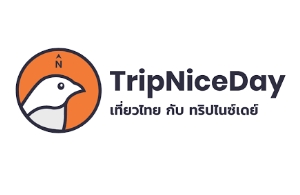
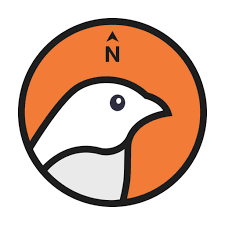
updating sponspor page

diff --git a/SponsorPage/Sponsor.html b/SponsorPage/Sponsor.html
@@ -1,0 +1,161 @@
+<!DOCTYPE html>
+<html lang="en">
+<head>
+  <meta charset="UTF-8">
+  <meta name="viewport" content="width=device-width, initial-scale=1.0">
+  <title>ITI BU Open House </title>
+  <link rel="icon" type="image/png" href="../image/icon.png">
+  <link href="https://cdn.jsdelivr.net/npm/bootstrap@5.3.0/dist/css/bootstrap.min.css" rel="stylesheet">
+  <link rel="stylesheet" href="/global.css">
+  <link rel="stylesheet" href="Sponsor-style.css">
+  <link href="https://fonts.googleapis.com/css2?family=Prompt:wght@300;400;500;600;700&display=swap" rel="stylesheet">
+</head>
+<body>
+
+  <!-- Navbar -->
+  <nav class="navbar navbar-expand-lg navbar-dark bg-dark" aria-label="Fifth navbar example">
+    <div class="container-fluid">
+      <a class="navbar-brand" href="/Home.html">
+        <img src="../image/logo.png" alt="Logo" style="width: 150px; height: auto;">
+      </a>
+      <button class="navbar-toggler" type="button" data-bs-toggle="collapse" data-bs-target="#navbarsExample05" aria-controls="navbarsExample05" aria-expanded="false" aria-label="Toggle navigation">
+        <span class="navbar-toggler-icon"></span>
+      </button>
+      <div class="collapse navbar-collapse" id="navbarsExample05">
+        <ul class="navbar-nav me-auto mb-2 mb-lg-0">
+          <li class="nav-item">
+            <a class="nav-link active" href="/Home.html">Home</a>
+          </li>
+          <li class="nav-item dropdown">
+            <a class="nav-link dropdown-toggle" href="#" data-bs-toggle="dropdown" aria-expanded="false">About</a>
+            <ul class="dropdown-menu">
+              <li><a class="dropdown-item" href="#">About the Open House</a></li>
+              <li><a class="dropdown-item" href="/SchedulePage/Schedule.html">Schedule</a></li>
+              <li><a class="dropdown-item" href="/SpeakerPage/Speaker.html">Speaker Profile</a></li>
+              <li><a class="dropdown-item" href="/Workshop.html">Workshop and Activities</a></li>
+              <li><a class="dropdown-item" href="/Contact.html">Contact Us</a></li>
+            </ul>
+          </li>
+          <li class="nav-item">
+            <a class="nav-link" href="#">Gallery</a>
+          </li>
+          <li class="nav-item">
+            <a class="nav-link" href="/SponsorPage/Sponsor.html">Sponsor & Partner</a>
+          </li>
+          <li class="nav-item">
+            <a class="nav-link" href="/FAQPage/FAQ.html">FAQ</a>
+          </li>
+        </ul>
+      </div>
+    </div>
+  </nav>
+
+  <!-- Image Carousel -->
+  <div id="carouselExampleCaptions" class="carousel slide" data-bs-ride="carousel">
+    <div class="carousel-inner">
+      <div class="carousel-item active">
+        <img src="../image/oph2.jpg" class="d-block w-100" alt="Sponsor 1">
+      </div>
+      <div class="carousel-item">
+        <img src="../image/oph.jpg" class="d-block w-100" alt="Sponsor 2">
+      </div>
+      <div class="carousel-item">
+        <img src="../image/oph3.jpg" class="d-block w-100" alt="Sponsor 3">
+      </div>
+    </div>
+    <button class="carousel-control-prev" type="button" data-bs-target="#carouselExampleCaptions" data-bs-slide="prev">
+      <span class="carousel-control-prev-icon" aria-hidden="true"></span>
+      <span class="visually-hidden">Previous</span>
+    </button>
+    <button class="carousel-control-next" type="button" data-bs-target="#carouselExampleCaptions" data-bs-slide="next">
+      <span class="carousel-control-next-icon" aria-hidden="true"></span>
+      <span class="visually-hidden">Next</span>
+    </button>
+  </div>
+
+  <!-- Title and Detail -->
+  <div class="container text-center mt-4">
+    <h1 class="page-title">Sponsors & Partners</h1>
+    <p class="page-detail">หนึ่งความพิเศษของปีนี้คือ มหาวิทยาลัยกรุงเทพได้ร่วมมือกับ BENZILLA ศิลปินศิษย์เก่าชื่อดัง มาร่วมออกแบบ Character ที่สะท้อนให้เห็นถึงความ Pro ของแต่ละคลัสเตอร์อีกด้วย 
+      บอกเลยว่าทุกกิจกรรมตั้งใจจัดเต็มกันแบบสุด ๆ ไม่ว่าจะเป็น 
+      PERSONALITY TEST ลองรู้จักตัวเอง, PRO-ACTIVITIES ลองฝึกทําจริง, PRO-CERTIFICATE ลองล่าใบเซอร์ใส่พอร์ต,
+      FLAVORFUL FAIR ลองชิมร้านมือโปร, FANCY NIGHT ลองสนุกให้สุด </p>
+  </div>
+
+  <!-- Sponsor Partners Section -->
+  <div class="container sponsor-section mt-5">
+    <div class="row text-center">
+      <div class="col-lg-4 col-md-6 mb-4">
+        <div class="sponsor-card">
+          <img src="../image/arise.jpg" class="sponsor-image" alt="Partner 1">
+          <h5 class="partner-title">Arise by INFINITAS</h5>
+        </div>
+      </div>
+      <div class="col-lg-4 col-md-6 mb-4">
+        <div class="sponsor-card">
+          <img src="../image/botnoi.png" class="sponsor-image" alt="Partner 2">
+          <h5 class="partner-title">Botnoi</h5>
+        </div>
+      </div>
+      <div class="col-lg-4 col-md-6 mb-4">
+        <div class="sponsor-card">
+          <img src="../image/bugbliop.jpg" class="sponsor-image" alt="Partner 3">
+          <h5 class="partner-title">BugBlio</h5>
+        </div>
+      </div>
+      <div class="col-lg-4 col-md-6 mb-4">
+        <div class="sponsor-card">
+          <img src="../image/buzzfreeze.jpg" class="sponsor-image" alt="Partner 3">
+          <h5 class="partner-title">Buzz Freeze</h5>
+        </div>
+      </div>
+      <div class="col-lg-4 col-md-6 mb-4">
+        <div class="sponsor-card">
+          <img src="../image/fairplay.jpg" class="sponsor-image" alt="Partner 3">
+          <h5 class="partner-title">Fair Play Studio</h5>
+        </div>
+      </div>
+      <div class="col-lg-4 col-md-6 mb-4">
+        <div class="sponsor-card">
+          <img src="../image/promptnow.jpg" class="sponsor-image" alt="Partner 3">
+          <h5 class="partner-title">Promptnow</h5>
+        </div>
+      </div>
+      <div class="col-lg-4 col-md-6 mb-4">
+        <div class="sponsor-card">
+          <img src="../image/shina.png" class="sponsor-image" alt="Partner 3">
+          <h5 class="partner-title">Shin-A</h5>
+        </div>
+      </div>
+      <div class="col-lg-4 col-md-6 mb-4">
+        <div class="sponsor-card">
+          <img src="../image/tripnightday.jpg" class="sponsor-image" alt="Partner 3">
+          <h5 class="partner-title">TripNiceDay</h5>
+        </div>
+      </div>
+    </div>
+  </div>
+
+  <script src="https://cdn.jsdelivr.net/npm/@popperjs/core@2.11.7/dist/umd/popper.min.js"></script>
+  <script src="https://cdn.jsdelivr.net/npm/bootstrap@5.3.0/dist/js/bootstrap.min.js"></script>
+  <script>
+    // Function to close the navbar when clicking outside of it
+    document.addEventListener('click', function(event) {
+      const navbar = document.querySelector('.navbar-collapse');
+      const toggler = document.querySelector('.navbar-toggler');
+      const target = event.target;
+      
+      // Check if the click is outside the navbar and toggler
+      if (!navbar.contains(target) && !toggler.contains(target)) {
+        // Collapse the navbar
+        if (navbar.classList.contains('show')) {
+          const bsCollapse = new bootstrap.Collapse(navbar, {
+            toggle: false
+          });
+          bsCollapse.hide();
+        }
+      }
+    });
+  </script>
+</body>
+</html>

diff --git a/SpeakerPage/Speaker.html b/SpeakerPage/Speaker.html
@@ -3,7 +3,7 @@
   <head>
     <meta charset="UTF-8" />
     <meta name="viewport" content="width=device-width, initial-scale=1.0" />
-    <title>ITI BU Open House - Schedule</title>
+    <title>ITI BU Open House</title>
     <link rel="icon" type="image/png" href="../image/icon.png" />
     <link
       href="https://cdn.jsdelivr.net/npm/bootstrap@5.3.0/dist/css/bootstrap.min.css"
@@ -84,7 +84,7 @@
               <a class="nav-link" href="#">Gallery</a>
             </li>
             <li class="nav-item">
-              <a class="nav-link" href="/SponserPage/Sponser.html">Sponsor & Partner</a>
+              <a class="nav-link" href="/SponsorPage/Sponsor.html">Sponsor & Partner</a>
             </li>
             <li class="nav-item">
               <a class="nav-link" href="/FAQPage/FAQ.html">FAQ</a>
@@ -123,14 +123,14 @@
       </div>
       <div class="carousel-inner">
         <div class="carousel-item active">
-          <img src="../image/shina.png" class="d-block w-100" alt="..." />
+          <img src="../image/shinacs.png" class="d-block w-100" alt="..." />
           <div class="carousel-caption d-none d-md-block">
             <h5>บริษัท SHIN-A SERVICE จำกัด</h5>
             <p>Game Publishing & Marketing</p>
           </div>
         </div>
         <div class="carousel-item">
-          <img src="../image/fairplay.jpg" class="d-block w-100" alt="..." />
+          <img src="../image/fairplaycs.png" class="d-block w-100" alt="..." />
           <div class="carousel-caption d-none d-md-block">
             <h5>บริษัท FairPlay Studio จำกัด</h5>
             <p>Game Business</p>
@@ -271,7 +271,7 @@
       <div class="card-row">
         <label for="modal5" class="profile-card">
           <input type="checkbox" id="modal5" class="modal-toggle" />
-          <img src="../image/tripnightday.jpg" alt="Profile Image" />
+          <img src="../image/tripnightdaycs.jpg" alt="Profile Image" />
           <h4>บริษัท TripNiceDay จำกัด</h4>
           <p>แพลตฟอร์มสำหรับจัดทริปเที่ยวที่สร้างขึ้นโดยคนไทย เราอยากให้คนไทยรู้สึกอยากออกไปเที่ยวไทย อยากจะนำเสนออัตลักษณ์ความเป็นไทยในรูปแบบที่ไม่น่าเบื่อ ไม่ยุ่งยากผ่านเทคโนโลยีสมัยใหม่โดยเอาประสบการณ์ของผู้ใช้เป็นศูนย์กลาง ซึ่ง TripNiceDay นี้เริ่มต้นจากการเอาธีสิสปริญญาโทของจิรายุผู้ก่อตั้งบริษัทฯมาต่อยอด โดยผ่านการค้นคว้าวิจัยสภาพตลาดนักท่องเที่ยวชาวไทยก่อนจะมาเป็นแพลตฟอร์มที่ให้บริการผ่านแอปพลิเคชันและเว็บไซต์อย่างปัจจุบันนี้</p>
           <div class="modal">
@@ -343,7 +343,7 @@
         </label>
         <label for="modal8" class="profile-card">
           <input type="checkbox" id="modal8" class="modal-toggle" />
-          <img src="../image/fairplay.jpg" alt="Profile Image" />
+          <img src="../image/fairplaycs.png" alt="Profile Image" />
           <h4>บริษัท FairPlay Studio จำกัด</h4>
           <p>สตูดิโอพัฒนาเกมและโปรดักชั่นเฮาส์ที่ตั้งอยู่ในกรุงเทพฯ ประเทศไทย</p>
 
@@ -368,7 +368,7 @@
 
         <label for="modal9" class="profile-card">
           <input type="checkbox" id="modal9" class="modal-toggle" />
-          <img src="../image/shina.png" alt="Profile Image" />
+          <img src="../image/shinacs.png" alt="Profile Image" />
           <h4>บริษัท SHIN-A SERVICE จำกัด</h4>
           <p>บริษัทเอเจนซี่โฆษณาที่เชี่ยวชาญทางด้านการตลาดเกมชั้นแนวหน้าของประเทศไทย </p>
 

diff --git a/SponsorPage/Sponsor-style.css b/SponsorPage/Sponsor-style.css
@@ -1,0 +1,60 @@
+body {
+    font-family: 'Prompt', sans-serif;
+  }
+  
+  .page-title {
+    font-size: 3rem;
+    color: #333;
+    font-weight: 600;
+    transition: all 0.3s ease-in-out;
+    cursor: pointer;
+    display: inline-block;
+    margin-top: 2rem;
+    margin-bottom: 0.5rem;
+  }
+  
+  .page-title:hover {
+    
+    color: #f57c00 ;
+    transform: scale(1.1);
+  }
+  
+  .page-detail {
+    font-size: 1rem;
+    color: #000000;
+    margin-bottom: 3rem;
+  }
+  
+  .sponsor-section {
+    margin-top: 3rem;
+  }
+  
+  .sponsor-card {
+    text-align: center;
+  }
+
+  .sponsor-image {
+    width: 150px;
+    height: 150px;
+    border-radius: 50%;
+    object-fit: cover;
+    padding: 10px;
+    transition: transform 0.3s ease-in-out;
+  }
+  
+  .sponsor-card:hover .sponsor-image {
+    transform: scale(1.05);
+  }
+  
+  .partner-title {
+    font-size: 1.2rem;
+    font-weight: 500;
+    margin-top: 1rem;
+    color: #333;
+  }
+  @media (max-width: 990px) {
+    .page-detail {
+        font-size: 0.7rem;
+        padding: 1rem;
+      }
+  }

diff --git a/SchedulePage/Schedule.html b/SchedulePage/Schedule.html
@@ -3,7 +3,7 @@
     <head>
         <meta charset="UTF-8" />
         <meta name="viewport" content="width=device-width, initial-scale=1.0" />
-        <title>ITI BU Open House - Schedule</title>
+        <title>ITI BU Open House</title>
         <link rel="icon" type="icon/png" href="../image/icon.png">
         <link href="https://cdn.jsdelivr.net/npm/bootstrap@5.3.0/dist/css/bootstrap.min.css" rel="stylesheet" />
         <link rel="stylesheet" href="/global.css" />
@@ -34,7 +34,7 @@
               </ul>
             </li>
             <li class="nav-item"><a class="nav-link" href="#">Gallery</a></li>
-            <li class="nav-item"><a class="nav-link" href="/SponserPage/Sponser.html">Sponsers & Partners</a></li>
+            <li class="nav-item"><a class="nav-link" href="/SponsorPage/Sponsor.html">Sponsers & Partners</a></li>
             <li class="nav-item"><a class="nav-link" href="/FAQPage/FAQ.html">FAQ</a></li>
           </ul>
         </div>

diff --git a/Home.html b/Home.html
@@ -52,7 +52,7 @@
             <a class="nav-link" href="#">Gallery</a>
           </li>
           <li class="nav-item">
-            <a class="nav-link" href="./SponserPage/Sponser.html">Sponsor & Partner</a>
+            <a class="nav-link" href="./SponsorPage/Sponsor.html">Sponsor & Partner</a>
           </li>
           <li class="nav-item">
             <a class="nav-link" href="/FAQPage/FAQ.html">FAQ</a>

diff --git a/FAQPage/FAQ.html b/FAQPage/FAQ.html
@@ -53,7 +53,7 @@
             <a class="nav-link" href="#">Gallery</a>
           </li>
           <li class="nav-item">
-            <a class="nav-link" href="/SponserPage/Sponser.html">Sponsor & Partner</a>
+            <a class="nav-link" href="/SponsorPage/Sponsor.html">Sponsor & Partner</a>
           </li>
           <li class="nav-item">
             <a class="nav-link" href="#">FAQ</a>
